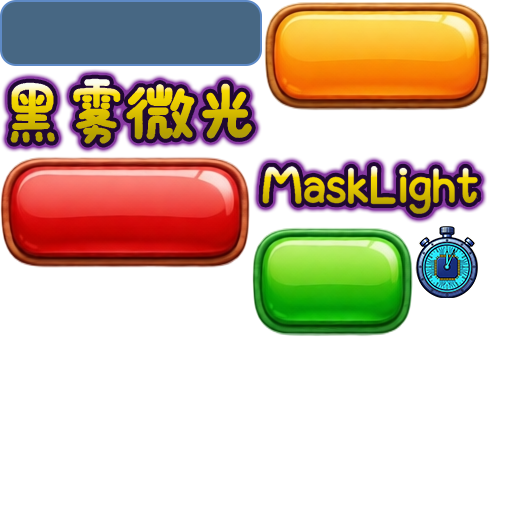
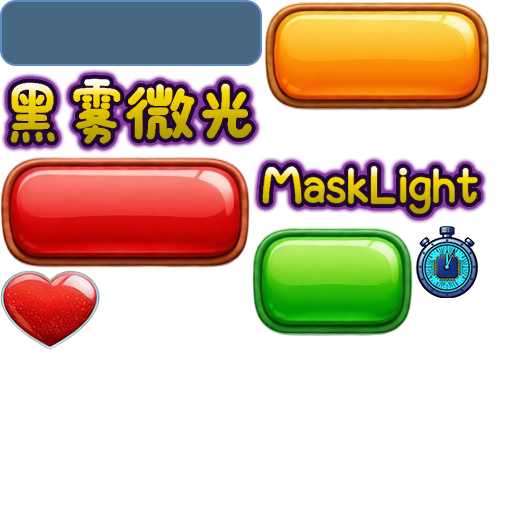
Refactor code structure for improved readability and maintainability

Changed region(s): [[0.0, 0.5312, 0.2188, 0.6875]]

diff --git a/assets/script/game/GameManager.ts b/assets/script/game/GameManager.ts
@@ -37,6 +37,10 @@ export class GameManager extends Component {
     private state: GameStateCode = GameStateCode.Ready;
     public  elapsed = 0;
 
+    public curHeartCount = 3;
+    public defaultHeartCount = 3;
+
+
     static instance: GameManager = null!;
 
     public get GameState() {
